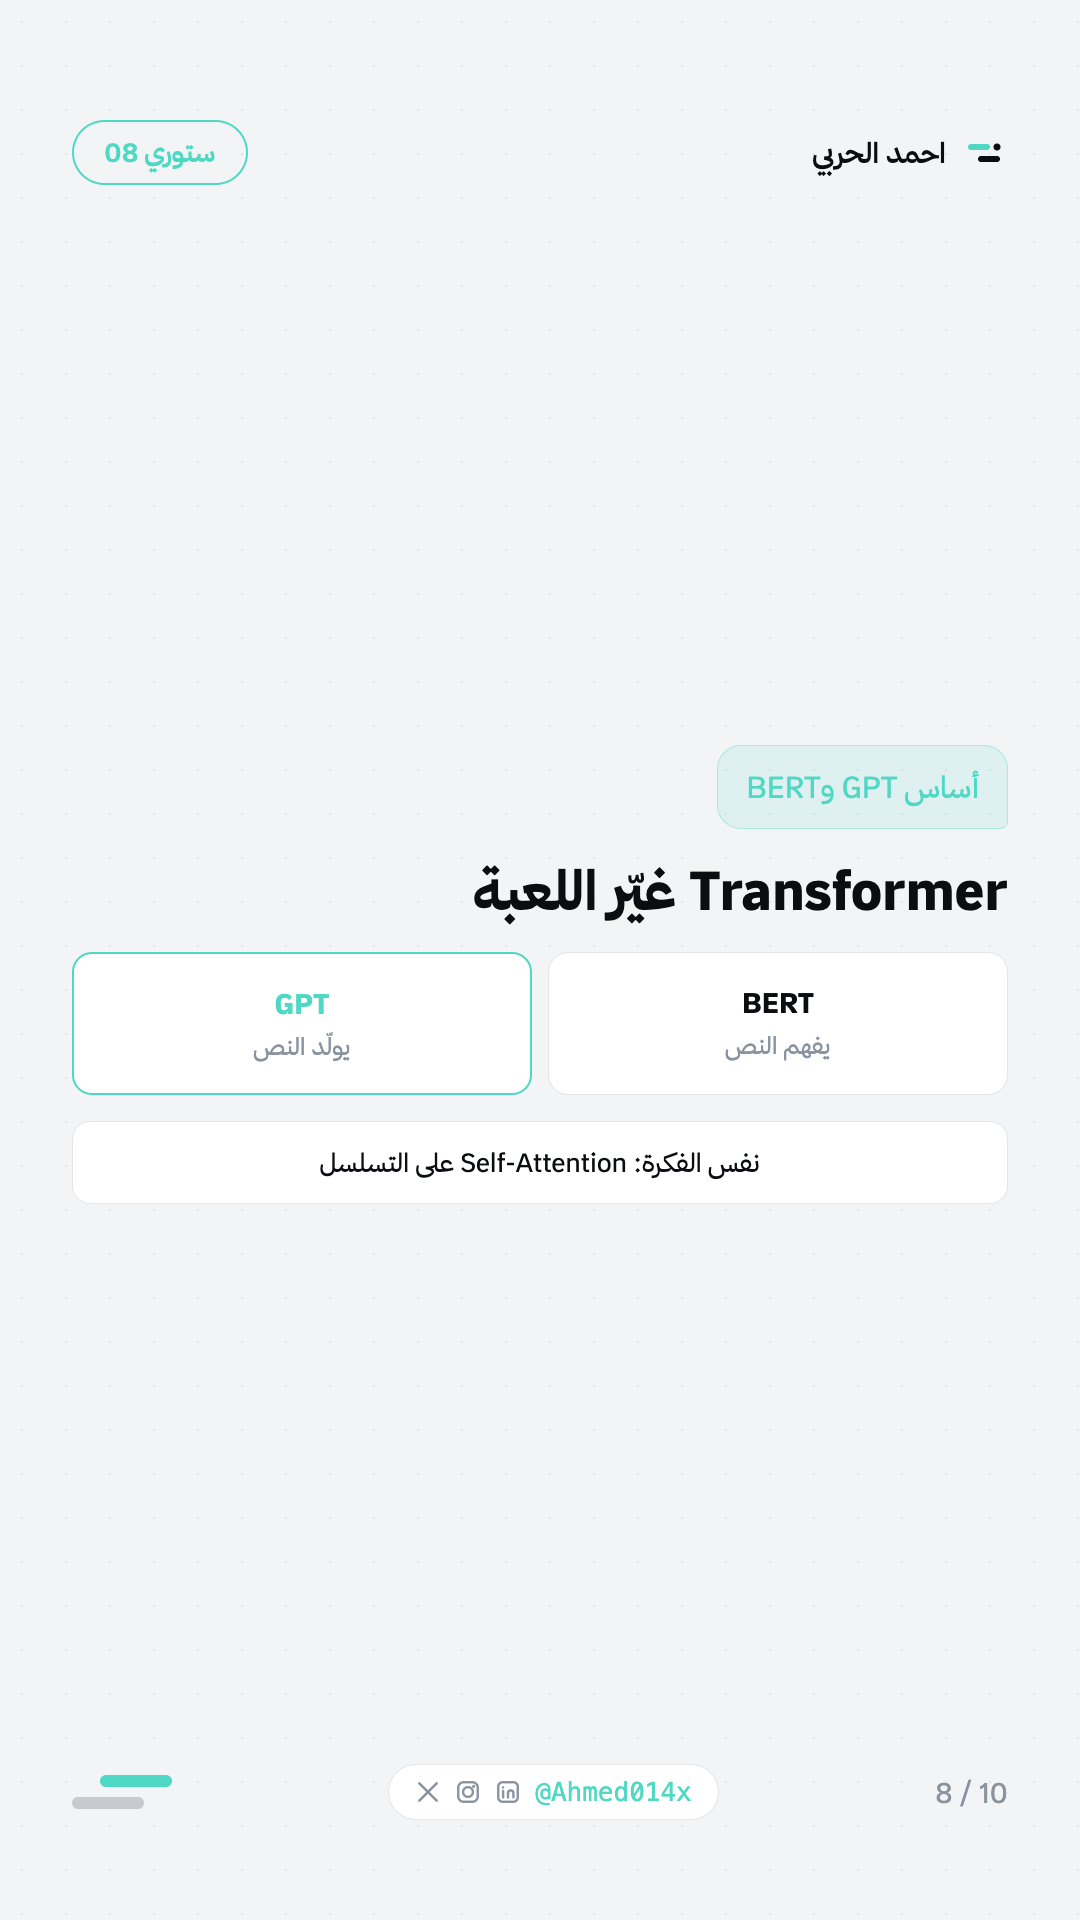
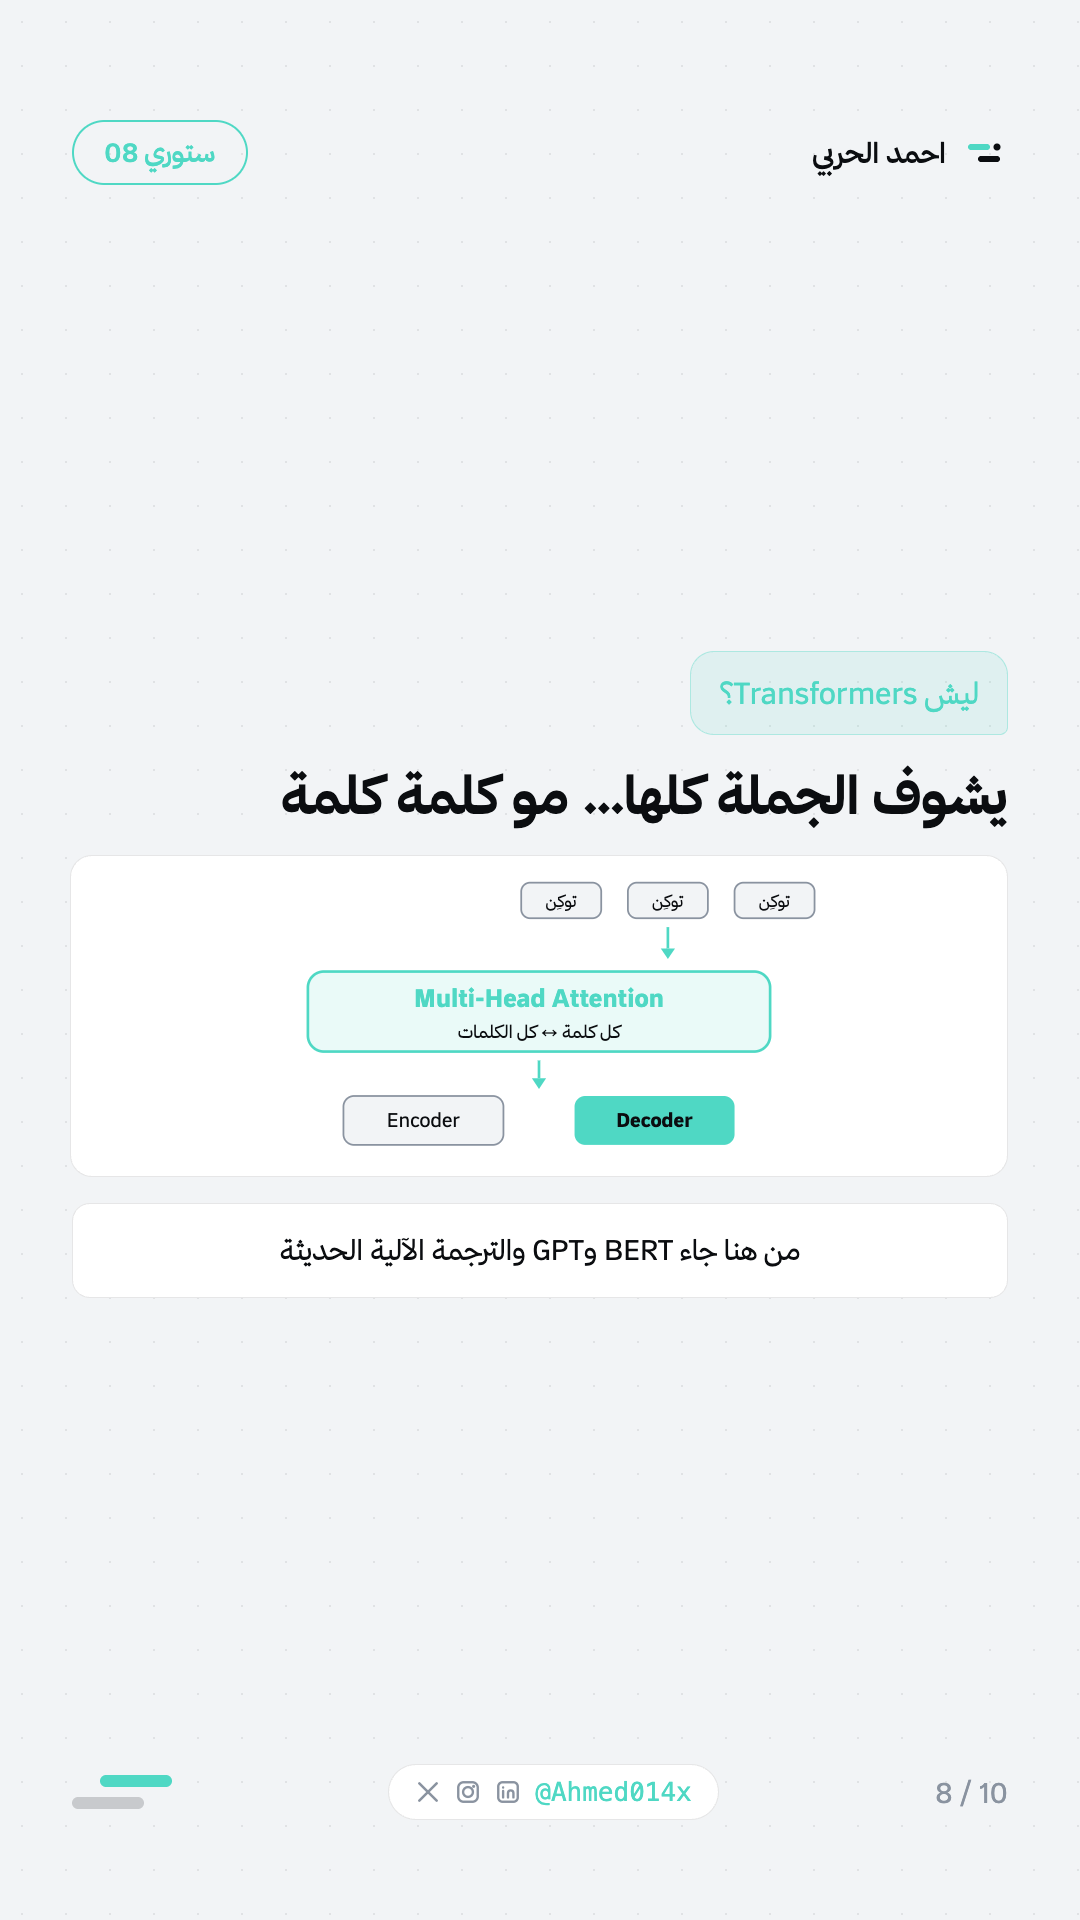
Revise brand package HTML and PNG assets to enhance visual clarity and engagement. Updates include rephrasing titles, improving SVG layouts, and adding new graphical elements to better illustrate the Transformer concept in the generative AI story series.

Changed region(s): [[0.2444, 0.3438, 0.9472, 0.6562]]

diff --git a/brand-package/html/سلسلة-معالجة-اللغات.html b/brand-package/html/سلسلة-معالجة-اللغات.html
@@ -278,29 +278,52 @@ body{margin:0;background:#e8ebee;font-family:'Thmanyah Sans',sans-serif}
     <div style="display:flex;align-items:center;gap:16px"><svg width="56" height="56" viewBox="0 0 96 96"><rect x="16" y="30" width="44" height="12" rx="6" fill="#4fd8c4"/><rect x="36" y="54" width="44" height="12" rx="6" fill="#0b0d10"/><circle cx="74" cy="36" r="7" fill="#0b0d10"/></svg><span style="font-size:30px;font-weight:600;color:#0b0d10">احمد الحربي</span></div>
     <span style="font-size:24px;padding:12px 28px;border:2.5px solid #4fd8c4;color:#4fd8c4;font-weight:600;border-radius:999px">الجزء 08</span>
   </div>
-  <div style="margin-top:32px">
-    <div style="font-size:56px;font-weight:700;color:#0b0d10;line-height:1.3">Transformer باختصار</div>
-    <div style="font-size:28px;color:#8a93a0;line-height:1.7;margin-top:10px">أساس BERT وGPT: انتباه + طبقات عميقة على التسلسل.</div>
+  <div style="margin-top:28px">
+    <div style="font-size:56px;font-weight:700;color:#0b0d10;line-height:1.3">Transformers</div>
+    <div style="font-size:28px;color:#8a93a0;line-height:1.7;margin-top:10px">قلب NLP الحديث — يقرأ الجملة <span style="color:#4fd8c4;font-weight:600">كلها دفعة واحدة</span> عبر الانتباه.</div>
   </div>
-  <div style="flex:1;display:flex;flex-direction:column;justify-content:center;gap:22px">
-    <svg viewBox="0 0 900 400" width="100%" height="380">
-      <rect x="620" y="20" width="200" height="64" rx="16" fill="#ffffff" stroke="rgba(11,13,16,.12)" stroke-width="2.5"/>
-      <text x="720" y="60" text-anchor="middle" fill="#0b0d10" font-size="24" font-weight="600" font-family="Thmanyah Sans">توكينات</text>
-      <path d="M720 94v24" stroke="#4fd8c4" stroke-width="3"/><polygon points="712,118 720,130 728,118" fill="#4fd8c4"/>
-      <rect x="280" y="140" width="540" height="100" rx="20" fill="rgba(79,216,196,.12)" stroke="#4fd8c4" stroke-width="3"/>
-      <text x="550" y="185" text-anchor="middle" fill="#4fd8c4" font-size="30" font-weight="700" font-family="Thmanyah Sans">Self-Attention × N</text>
-      <text x="550" y="220" text-anchor="middle" fill="#0b0d10" font-size="20" font-family="Thmanyah Sans">كل كلمة تشوف الباقي دفعة واحدة</text>
-      <path d="M550 250v28" stroke="#4fd8c4" stroke-width="3"/><polygon points="542,278 550,290 558,278" fill="#4fd8c4"/>
-      <rect x="320" y="300" width="200" height="70" rx="14" fill="#ffffff" stroke="rgba(11,13,16,.12)" stroke-width="2"/>
-      <text x="420" y="345" text-anchor="middle" fill="#0b0d10" font-size="24" font-family="Thmanyah Sans">BERT فهم</text>
-      <rect x="560" y="300" width="200" height="70" rx="14" fill="#4fd8c4"/>
-      <text x="660" y="345" text-anchor="middle" fill="#0b0d10" font-size="24" font-weight="700" font-family="Thmanyah Sans">GPT توليد</text>
-      <rect x="40" y="140" width="200" height="100" rx="16" fill="#ffffff" stroke="rgba(11,13,16,.10)" stroke-width="2"/>
-      <text x="140" y="185" text-anchor="middle" fill="#0b0d10" font-size="22" font-weight="600" font-family="Thmanyah Sans">طبقات</text>
-      <text x="140" y="215" text-anchor="middle" fill="#8a93a0" font-size="18" font-family="Thmanyah Sans">Feed-Forward</text>
+  <div style="flex:1;display:flex;flex-direction:column;justify-content:center;gap:18px">
+    <svg viewBox="0 0 920 520" width="100%" height="480">
+      <!-- input tokens row RTL -->
+      <text x="460" y="28" text-anchor="middle" fill="#8a93a0" font-size="18" font-family="Thmanyah Sans">مدخل: توكينات + موقع</text>
+      <rect x="700" y="44" width="100" height="48" rx="12" fill="#ffffff" stroke="rgba(11,13,16,.12)" stroke-width="2"/><text x="750" y="75" text-anchor="middle" fill="#0b0d10" font-size="20" font-family="Thmanyah Sans">القطة</text>
+      <rect x="570" y="44" width="100" height="48" rx="12" fill="#ffffff" stroke="rgba(11,13,16,.12)" stroke-width="2"/><text x="620" y="75" text-anchor="middle" fill="#0b0d10" font-size="20" font-family="Thmanyah Sans">جلست</text>
+      <rect x="440" y="44" width="100" height="48" rx="12" fill="#ffffff" stroke="rgba(11,13,16,.12)" stroke-width="2"/><text x="490" y="75" text-anchor="middle" fill="#0b0d10" font-size="20" font-family="Thmanyah Sans">على</text>
+      <rect x="310" y="44" width="100" height="48" rx="12" fill="#ffffff" stroke="rgba(11,13,16,.12)" stroke-width="2"/><text x="360" y="75" text-anchor="middle" fill="#0b0d10" font-size="20" font-family="Thmanyah Sans">البساط</text>
+      <path d="M460 102v18" stroke="#4fd8c4" stroke-width="3"/><polygon points="452,120 460,132 468,120" fill="#4fd8c4"/>
+
+      <!-- block stack -->
+      <rect x="160" y="140" width="600" height="220" rx="24" fill="#ffffff" stroke="rgba(11,13,16,.10)" stroke-width="2"/>
+      <text x="460" y="172" text-anchor="middle" fill="#8a93a0" font-size="18" font-family="Thmanyah Sans">كتلة Transformer × N</text>
+
+      <rect x="200" y="190" width="520" height="64" rx="14" fill="rgba(79,216,196,.14)" stroke="#4fd8c4" stroke-width="3"/>
+      <text x="460" y="230" text-anchor="middle" fill="#4fd8c4" font-size="26" font-weight="700" font-family="Thmanyah Sans">Multi-Head Attention</text>
+
+      <path d="M460 264v14" stroke="#8a93a0" stroke-width="2.5"/><polygon points="452,278 460,288 468,278" fill="#8a93a0"/>
+
+      <rect x="200" y="294" width="520" height="48" rx="12" fill="#f2f4f6" stroke="rgba(11,13,16,.12)" stroke-width="2"/>
+      <text x="460" y="326" text-anchor="middle" fill="#0b0d10" font-size="22" font-weight="600" font-family="Thmanyah Sans">Feed-Forward + Norm</text>
+
+      <path d="M460 370v18" stroke="#4fd8c4" stroke-width="3"/><polygon points="452,388 460,400 468,388" fill="#4fd8c4"/>
+
+      <!-- two outputs -->
+      <rect x="200" y="410" width="220" height="80" rx="16" fill="#ffffff" stroke="rgba(11,13,16,.12)" stroke-width="2.5"/>
+      <text x="310" y="448" text-anchor="middle" fill="#0b0d10" font-size="24" font-weight="700" font-family="Thmanyah Sans">Encoder</text>
+      <text x="310" y="478" text-anchor="middle" fill="#8a93a0" font-size="18" font-family="Thmanyah Sans">BERT · فهم</text>
+
+      <rect x="500" y="410" width="220" height="80" rx="16" fill="#4fd8c4"/>
+      <text x="610" y="448" text-anchor="middle" fill="#0b0d10" font-size="24" font-weight="700" font-family="Thmanyah Sans">Decoder</text>
+      <text x="610" y="478" text-anchor="middle" fill="#0b0d10" font-size="18" font-family="Thmanyah Sans">GPT · توليد</text>
+
+      <!-- side callout -->
+      <rect x="20" y="190" width="120" height="150" rx="16" fill="#ffffff" stroke="#4fd8c4" stroke-width="2.5"/>
+      <text x="80" y="240" text-anchor="middle" fill="#4fd8c4" font-size="18" font-weight="700" font-family="Thmanyah Sans">متوازي</text>
+      <text x="80" y="275" text-anchor="middle" fill="#0b0d10" font-size="16" font-family="Thmanyah Sans">مو كلمة</text>
+      <text x="80" y="300" text-anchor="middle" fill="#0b0d10" font-size="16" font-family="Thmanyah Sans">ورا كلمة</text>
+      <text x="80" y="325" text-anchor="middle" fill="#8a93a0" font-size="14" font-family="Thmanyah Sans">مثل RNN</text>
     </svg>
   </div>
-  <div style="display:flex;justify-content:space-between;align-items:center;margin-top:16px">
+  <div style="display:flex;justify-content:space-between;align-items:center;margin-top:8px">
     <span dir="ltr" style="font-size:26px;font-family:'Thmanyah Sans',sans-serif;color:#8a93a0">8 / 10</span>
     <div dir="ltr" style="display:flex;align-items:center;gap:14px;padding:12px 26px;background:#ffffff;border:1px solid rgba(11,13,16,.10);border-radius:999px"><svg width="26" height="26" viewBox="0 0 24 24" fill="none" stroke="#8a93a0" stroke-width="2.4" stroke-linecap="round"><path d="M4 4l16 16M20 4L4 20"/></svg><svg width="26" height="26" viewBox="0 0 24 24" fill="none" stroke="#8a93a0" stroke-width="2.2" stroke-linecap="round"><rect x="3" y="3" width="18" height="18" rx="5"/><circle cx="12" cy="12" r="4.5"/><circle cx="17.2" cy="6.8" r="1.4" fill="#8a93a0" stroke="none"/></svg><svg width="26" height="26" viewBox="0 0 24 24" fill="none" stroke="#8a93a0" stroke-width="2.2" stroke-linecap="round"><rect x="3" y="3" width="18" height="18" rx="4"/><path d="M7.5 11v6M7.5 7.8v.1M12 17v-4a2.5 2.5 0 0 1 5 0v4"/></svg><span dir="ltr" style="font-size:26px;font-family:ui-monospace,monospace;color:#4fd8c4">@Ahmed014x</span></div>
     <div style="display:flex;flex-direction:column;gap:12px;align-items:flex-start"><span style="width:80px;height:14px;border-radius:7px;background:#4fd8c4"></span><span style="width:80px;height:14px;border-radius:7px;background:rgba(11,13,16,.18);margin-right:36px"></span></div>

diff --git a/brand-package/html/ستوريات-معالجة-اللغات.html b/brand-package/html/ستوريات-معالجة-اللغات.html
@@ -186,19 +186,21 @@ body{margin:0;background:#e8ebee;font-family:'Thmanyah Sans',sans-serif}
     <span style="font-size:26px;padding:14px 30px;border:2.5px solid #4fd8c4;color:#4fd8c4;font-weight:600;border-radius:999px">ستوري 08</span>
   </div>
   <div style="flex:1;display:flex;flex-direction:column;justify-content:center;gap:26px">
-    <div style="align-self:flex-start;max-width:92%;background:rgba(79,216,196,.12);border:1.5px solid rgba(79,216,196,.35);border-radius:24px 24px 8px 24px;padding:22px 28px;font-size:30px;color:#4fd8c4">أساس GPT وBERT</div>
-    <div style="font-size:54px;font-weight:700;color:#0b0d10;line-height:1.3">Transformer غيّر اللعبة</div>
-    <div style="display:grid;grid-template-columns:1fr 1fr;gap:16px">
-      <div style="background:#ffffff;border:1px solid rgba(11,13,16,.10);border-radius:20px;padding:32px;text-align:center">
-        <div style="font-size:28px;font-weight:700;color:#0b0d10">BERT</div>
-        <div style="font-size:24px;color:#8a93a0;margin-top:10px">يفهم النص</div>
-      </div>
-      <div style="background:#ffffff;border:2.5px solid #4fd8c4;border-radius:20px;padding:32px;text-align:center">
-        <div style="font-size:28px;font-weight:700;color:#4fd8c4">GPT</div>
-        <div style="font-size:24px;color:#8a93a0;margin-top:10px">يولّد النص</div>
-      </div>
-    </div>
-    <div style="background:#ffffff;border:1px solid rgba(11,13,16,.10);border-radius:18px;padding:24px;text-align:center;font-size:26px;color:#0b0d10">نفس الفكرة: Self-Attention على التسلسل</div>
+    <div style="align-self:flex-start;max-width:92%;background:rgba(79,216,196,.12);border:1.5px solid rgba(79,216,196,.35);border-radius:24px 24px 8px 24px;padding:22px 28px;font-size:30px;color:#4fd8c4">ليش Transformers؟</div>
+    <div style="font-size:52px;font-weight:700;color:#0b0d10;line-height:1.3">يشوف الجملة كلها… مو كلمة كلمة</div>
+    <svg viewBox="0 0 920 360" width="100%" height="320" style="background:#ffffff;border-radius:22px;border:1px solid rgba(11,13,16,.10)">
+      <rect x="680" y="30" width="90" height="40" rx="10" fill="#f2f4f6" stroke="#8a93a0" stroke-width="2"/><text x="725" y="57" text-anchor="middle" fill="#0b0d10" font-size="18" font-family="Thmanyah Sans">توكِن</text>
+      <rect x="560" y="30" width="90" height="40" rx="10" fill="#f2f4f6" stroke="#8a93a0" stroke-width="2"/><text x="605" y="57" text-anchor="middle" fill="#0b0d10" font-size="18" font-family="Thmanyah Sans">توكِن</text>
+      <rect x="440" y="30" width="90" height="40" rx="10" fill="#f2f4f6" stroke="#8a93a0" stroke-width="2"/><text x="485" y="57" text-anchor="middle" fill="#0b0d10" font-size="18" font-family="Thmanyah Sans">توكِن</text>
+      <path d="M605 80v24" stroke="#4fd8c4" stroke-width="3"/><polygon points="597,104 605,116 613,104" fill="#4fd8c4"/>
+      <rect x="200" y="130" width="520" height="90" rx="18" fill="rgba(79,216,196,.12)" stroke="#4fd8c4" stroke-width="3"/>
+      <text x="460" y="170" text-anchor="middle" fill="#4fd8c4" font-size="28" font-weight="700" font-family="Thmanyah Sans">Multi-Head Attention</text>
+      <text x="460" y="205" text-anchor="middle" fill="#0b0d10" font-size="20" font-family="Thmanyah Sans">كل كلمة ↔ كل الكلمات</text>
+      <path d="M460 230v20" stroke="#4fd8c4" stroke-width="3"/><polygon points="452,250 460,262 468,250" fill="#4fd8c4"/>
+      <rect x="240" y="270" width="180" height="55" rx="12" fill="#f2f4f6" stroke="#8a93a0" stroke-width="2"/><text x="330" y="305" text-anchor="middle" fill="#0b0d10" font-size="22" font-family="Thmanyah Sans">Encoder</text>
+      <rect x="500" y="270" width="180" height="55" rx="12" fill="#4fd8c4"/><text x="590" y="305" text-anchor="middle" fill="#0b0d10" font-size="22" font-weight="700" font-family="Thmanyah Sans">Decoder</text>
+    </svg>
+    <div style="background:#ffffff;border:1px solid rgba(11,13,16,.10);border-radius:18px;padding:24px 28px;font-size:28px;color:#0b0d10;line-height:1.6;text-align:center">من هنا جاء BERT وGPT والترجمة الآلية الحديثة</div>
   </div>
   <div style="margin-top:auto;display:flex;justify-content:space-between;align-items:center">
     <span dir="ltr" style="font-size:28px;font-family:'Thmanyah Sans',sans-serif;color:#8a93a0">8 / 10</span>
